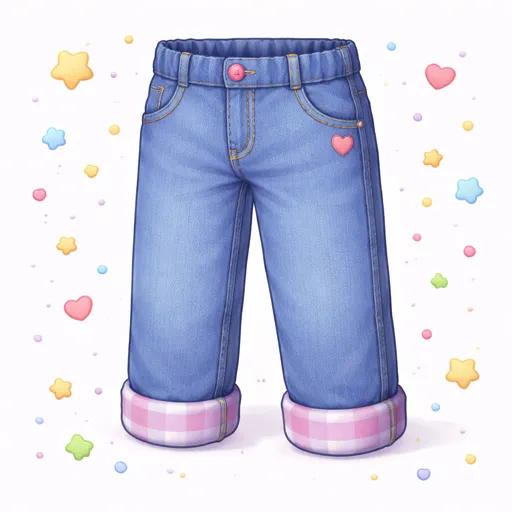
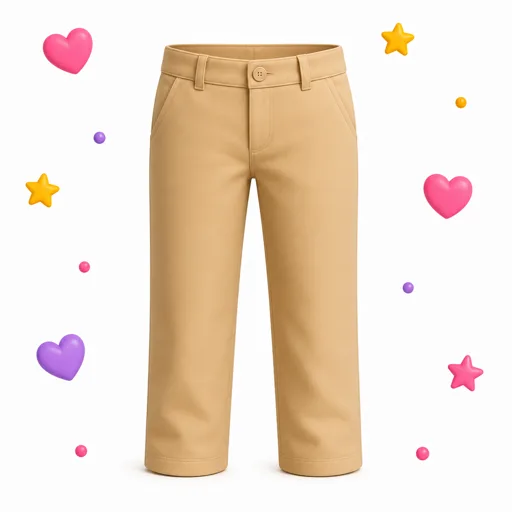
tema 4: abric vracen iz sveske, `mitjons` se priznaje, pantalone vise nisu farmerke
1) `abric` (kaput) JE ISPAO IZ SVESKE PRI DELJENJU SPISKA
Sveska u prvom spisku odece ima 20 reci, medju njima i `abric`. Kad je spisak
podeljen na tri dela, `abric` je ispao — i dete ga je prvi put sretalo tek u
zadatku sa mikrofonom. Vlasnica: „ima jedan kaputic kog nema u prethodnim
zadacima, probala je anorac, jersei, jaqueta". Trazilo se da izgovori rec koju
mu niko nije pokazao. Vracen u drugi deo spiska.

2) `mitjons` SE NIJE PRIZNAVAO (prijava: „sto puta je rekla")
Usluga za prepoznavanje retko vrati bas „mitjons" — vrati „mitjón",
„michones", „mit jons". Cula je dete, ali zapisuje po svome. Provera je
dozvoljavala najvise CETVRTINU reci razlike, sto je za rec od sedam slova
jedno jedino slovo.
Granica se NE popusta (primala bi pogresne reci) nego se pita drugacije: od
SVIH reci u tom zadatku, kojoj je izgovoreno najblize? Ako je to trazena rec,
priznaje se. Druga rec iz istog zadatka ne moze da se provuce — ona je bliza
sama sebi. Provereno: „mitjón", „michones", „mi jones", „abrigo", „texanos"
prolaze; „elefant" ne prolazi ni za sta.
Dodato i poredjenje BEZ RAZMAKA — usluga cesto rasece rec na dva dela.

Uz to: kad prepoznavanje NE prizna, uredjaj sam javi STA je cuo (samo
katalonska rec, nista licno). Bez toga se ne moze znati zasto nesto ne prolazi.

3) `pantalons` I `texans` BILE SU ISTA SLIKA — obe plave farmerke, pa dete nije
moglo da ih razlikuje. Nove pantalone su bez teksasa, bez plave.
[…]

diff --git a/src/hooks/useSpeechRecognition.ts b/src/hooks/useSpeechRecognition.ts
@@ -101,6 +101,19 @@ export function wordsMatch(spoken: string, expected: string): boolean {
   // Check if spoken contains expected (child might say extra words)
   if (normalSpoken.includes(normalExpected)) return true;
 
+  /**
+   * PREPOZNAVANJE UME DA RASECE REČ NA DVA DELA (17.08.2026, prijava vlasnice:
+   * „sto puta je rekla `mitjons` i ne prihvata").
+   *
+   * Usluga za prepoznavanje često vrati „mit jons" ili „mi tjons" — čula je
+   * tačno, samo je razmak stavila gde mu nije mesto. Za dete je to isto,
+   * a zadatak je padao. Zato se poređenje radi i BEZ IJEDNOG RAZMAKA.
+   */
+  const bezRazmaka = (t: string) => t.replace(/\s+/g, "");
+  if (bezRazmaka(normalSpoken) === bezRazmaka(normalExpected)) return true;
+  if (bezRazmaka(normalSpoken).includes(bezRazmaka(normalExpected))
+      && bezRazmaka(normalExpected).length >= 4) return true;
+
   // Check if expected contains spoken (partial match)
   if (normalExpected.includes(normalSpoken) && normalSpoken.length > 2) return true;
 
@@ -113,6 +126,38 @@ export function wordsMatch(spoken: string, expected: string): boolean {
 }
 
 // Simple Levenshtein distance implementation
+/**
+ * NAJBLIŽA REČ IZ SAMOG ZADATKA (17.08.2026, prijava vlasnice: „sto puta je
+ * rekla `mitjons` i ne prihvata").
+ *
+ * ZAŠTO OVAKO: usluga za prepoznavanje retko vrati baš „mitjons". Vrati
+ * „mitjón", „michones", „mit jons" — čula je dete, ali je zapisala po svome.
+ * Dosadašnja provera je dozvoljavala najviše ČETVRTINU reči razlike, što je za
+ * reč od sedam slova jedno jedino slovo. Zato je dete govorilo tačno, a
+ * zadatak padao.
+ *
+ * Popuštanje te granice za sve bilo bi opasno — počelo bi da prima i pogrešne
+ * reči. Zato se ne popušta nego se pita drugačije: od SVIH reči u tom zadatku,
+ * kojoj je izgovoreno najbliže? Ako je to tražena reč, i ako nije očigledno
+ * daleko, priznaje se. Time se ne može proći sa drugom reči iz istog zadatka —
+ * ona bi bila bliža sama sebi.
+ */
+export function najblizaRec(izgovoreno: string, sveReci: string[]): string | null {
+  const g = normalizeForComparison(izgovoreno).replace(/\s+/g, "");
+  if (!g) return null;
+  let najbolja: string | null = null;
+  let najmanja = Infinity;
+  for (const r of sveReci) {
+    const d = levenshteinDistance(g, normalizeForComparison(r).replace(/\s+/g, ""));
+    if (d < najmanja) { najmanja = d; najbolja = r; }
+  }
+  if (najbolja === null) return null;
+  // Granica: pola dužine reči. Dalje od toga nije „malo pogrešno zapisano"
+  // nego druga reč, i ne priznaje se ni ako je najbliža.
+  const granica = Math.max(2, Math.floor(normalizeForComparison(najbolja).length / 2));
+  return najmanja <= granica ? najbolja : null;
+}
+
 function levenshteinDistance(a: string, b: string): number {
   if (a.length === 0) return b.length;
   if (b.length === 0) return a.length;

diff --git a/src/components/tasks/SelfAssessment.tsx b/src/components/tasks/SelfAssessment.tsx
@@ -6,7 +6,7 @@ import { SelfAssessmentTask, TaskResult } from "@/types/tasks";
 import { getWordIllustration } from "@/lib/illustrations";
 import { speak } from "@/lib/tts";
 import { Mic, MicOff } from "lucide-react";
-import { useSpeechRecognition, wordsMatch } from "@/hooks/useSpeechRecognition";
+import { useSpeechRecognition, wordsMatch, najblizaRec } from "@/hooks/useSpeechRecognition";
 import { useSnimanjeGlasa, type IshodSnimka, type GreskaMikrofona } from "@/hooks/useSnimanjeGlasa";
 import { celebrate, celebrateBig } from "@/lib/confetti";
 import { javiKvarMikrofona } from "@/lib/dijagnostika";
@@ -75,7 +75,22 @@ export default function SelfAssessment({ task, onComplete }: Props) {
       presudjenoRef.current = true;
       const item = task.items[activeIdx];
       const sve = alternatives || [transcript];
-      const tacno = sve.some((t) => wordsMatch(t, item.catalan));
+      // Prvo obično poređenje. Ako ne prođe, pita se drugačije: od SVIH reči u
+      // ovom zadatku, kojoj je izgovoreno najbliže? Ako je to tražena reč,
+      // priznaje se. Tako „mitjón" ili „michones" prolaze za „mitjons", a
+      // druga reč iz istog zadatka ne može da se provuče.
+      const sveReci = task.items.map((x) => x.catalan);
+      const tacno =
+        sve.some((t) => wordsMatch(t, item.catalan)) ||
+        sve.some((t) => najblizaRec(t, sveReci) === item.catalan);
+      // KAD NE PRIZNA — ZAPIŠI ŠTA JE ČULO (17.08.2026).
+      // Bez ovoga se ne može znati zašto `mitjons` ne prolazi: da li dete nije
+      // reklo, ili je usluga vratila nešto treće. Šalje se SAMO katalonska reč
+      // koju je usluga razumela i reč koja se traži — ništa lično.
+      if (!tacno) {
+        void javiKvarMikrofona("samoprocena:ne-priznaje",
+          `trazi=${item.catalan} culo=${sve.slice(0, 3).join("|").slice(0, 60)}`);
+      }
       const novi = { ...results, [activeIdx]: (tacno ? "correct" : "retry") as "correct" | "retry" };
       setResults(novi);
       if (tacno) { celebrate(); zavrsiAko(novi); }

diff --git a/src/app/tema/[slug]/TemaContent.tsx b/src/app/tema/[slug]/TemaContent.tsx
@@ -1142,17 +1142,26 @@ export default function TemaContent({ slug }: TemaContentProps) {
           `fixed` se drži za dno PROZORA i ne može da promaši. */}
       <footer className="fixed bottom-0 inset-x-0 z-40 bg-[var(--background)] px-4 py-3 border-t border-gray-100">
         <div className="task-shell flex justify-between">
+          {/* ŽIŽA SE SKIDA SA DUGMETA POSLE KLIKA (17.08.2026, prijava vlasnice)
+              Bez ovoga žiža (fokus) ostane na „Següent"/„Anterior", pa Enter u
+              zadatku pregledač shvati kao ponovni klik na to dugme i PRESKOČI
+              ceo zadatak. Vlasnica je to i prijavila: otkuca reč, pritisne
+              Enter, i umesto sledeće REČI dobije sledeći ZADATAK.
+              Sam Enter je zaustavljen i u zadatku (`CopyWord`); ovo je druga
+              brava, da isto ne iskrsne u nekom drugom tipu zadatka. */}
           <button
-            onClick={() =>
-              setCurrentTaskIndex(Math.max(0, currentTaskIndex - 1))
-            }
+            onClick={(e) => {
+              e.currentTarget.blur();
+              setCurrentTaskIndex(Math.max(0, currentTaskIndex - 1));
+            }}
             disabled={currentTaskIndex === 0}
             className="flex items-center gap-2 px-5 py-2.5 rounded-full font-bold text-white bg-[var(--primary)] disabled:opacity-30 hover:brightness-110 active:scale-95 transition-all shadow-md"
           >
             <ArrowLeft size={18} /> Anterior
           </button>
           <button
-            onClick={() => {
+            onClick={(e) => {
+              e.currentTarget.blur();   // v. objašnjenje kod dugmeta „Anterior"
               if (currentTaskIndex === tasks.length - 1 && isTaskCompleted) {
                 setShowCelebration(true);
               } else {

diff --git a/src/components/tasks/CopyWord.tsx b/src/components/tasks/CopyWord.tsx
@@ -196,6 +196,21 @@ export default function CopyWord({ task, onComplete, review = false }: Props) {
   const handleKeyDown = useCallback(
     (e: KeyboardEvent) => {
       if (e.key === "Enter") {
+        /**
+         * ENTER JE PRESKAKAO CEO ZADATAK (17.08.2026, prijava vlasnice:
+         * „otkucam banyador i kliknem enter, a on ode na sledeći zadatak
+         * umesto na sledeću reč").
+         *
+         * Uzrok: dete dođe na zadatak klikom na „Següent", pa žiža (fokus)
+         * ostane na tom dugmetu. Zadatak nema polje za unos — slova se hvataju
+         * sa cele strane — pa se žiža nikad ne pomeri. Kad dete otkuca reč i
+         * pritisne Enter, pregledač Enter shvati kao ponovni klik na „Següent"
+         * i preskoči ceo zadatak.
+         *
+         * `preventDefault` to zaustavlja: Enter ovde znači „proveri reč", i
+         * ništa drugo.
+         */
+        e.preventDefault();
         if (checked && !correct) {
           handleRetry();
         } else if (!checked && allFilled) {

diff --git a/src/data/la-roba.ts b/src/data/la-roba.ts
@@ -46,6 +46,13 @@ export const laRobaTasks: Task[] = [
       { catalan: "vestit", image: "vestit" },
       { catalan: "xandall", image: "xandall" },
       { catalan: "americana", image: "americana" },
+      // `abric` (kaput) JE U SVESCI, u istom prvom spisku odeće, ali je ISPAO
+      // kad je taj spisak podeljen na tri dela (17.08.2026, prijava vlasnice:
+      // „posle botes a pre texans ima jedan kaputić kog nema u prethodnim
+      // zadacima, probala je anorac, jersei, jaqueta").
+      // Dete ga je prvi put sretalo tek u zadatku sa mikrofonom — dakle
+      // tražilo se da izgovori reč koju mu niko nije pokazao.
+      { catalan: "abric", image: "abric" },
       { catalan: "cinturó", image: "cinturo" },
       { catalan: "corbata", image: "corbata" },
       { catalan: "gorro", image: "gorro" },

diff --git a/src/lib/audio-reci.ts b/src/lib/audio-reci.ts
@@ -355,6 +355,7 @@ export const SNIMLJENO: Record<string, string> = {
   "vestit": "vestit",
   "xandall": "xandall",
   "americana": "americana",
+  "abric": "abric",
   "cinturó": "cinturo-d85c7f",
   "corbata": "corbata",
   "gorro": "gorro",
@@ -376,7 +377,6 @@ export const SNIMLJENO: Record<string, string> = {
   "pijama": "pijama",
   "calçotets": "calcotets-97170d",
   "calces": "calces",
-  "abric": "abric",
   "bota": "bota",
   "bruts": "bruts",
   "nou": "nou",

diff --git a/public/sw.js b/public/sw.js
@@ -1,4 +1,4 @@
-const CACHE_NAME = "catala-v63";
+const CACHE_NAME = "catala-v66";
 const STATIC_ASSETS = [
   "/",
   "/manifest.json",
